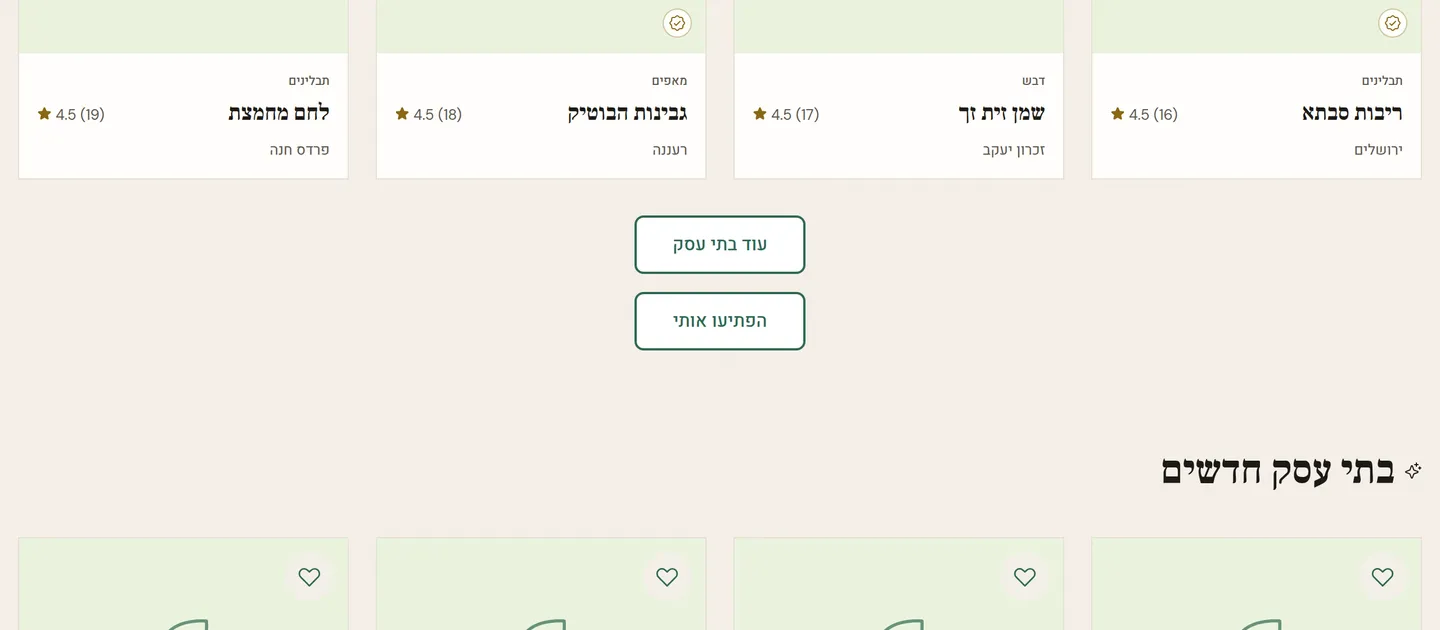
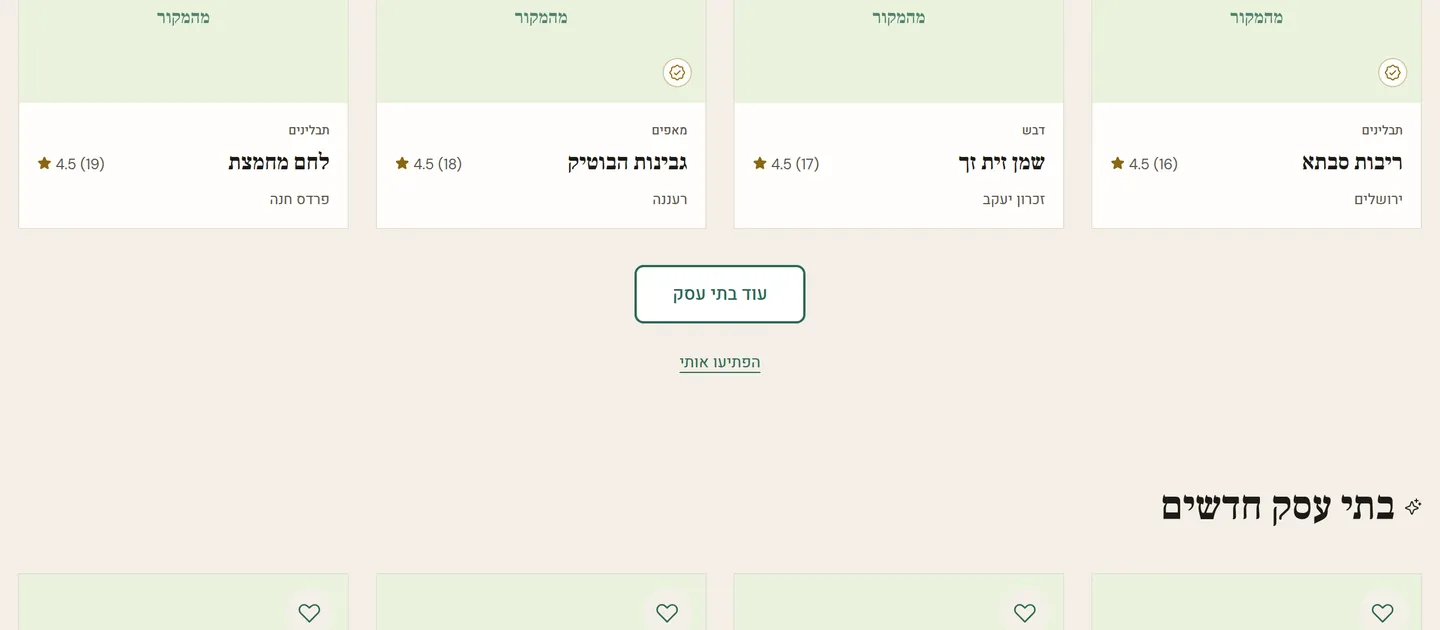
fix(home): MEH-1476 — grid-end surprise-me as a text link, not a twin pill
Sapir 22/07: the grid-end "הפתיעו אותי" rendered as an outline pill
identical to "עוד בתי עסק", recreating the MEH-1369 anti-pattern of two
equal-weight actions side by side.

Render the surprise-me action as a TEXT LINK instead — same weight/classes
as the hero "how it works" link (text-primary underline underline-offset-4
text-sm), deliberately lighter than the load-more pill. inline-block px-4 py-3
keeps the tap target >=44px via padding, not font size. Centered, mt-3 below
the pill; shows in both grid states (load-more button and the MEH-1387
/producers cap link). Handler + hasProducers gate + copy unchanged.

Folded into this PR (chunk 1 still open) since it refines the same button in
the same file.

Refs MEH-1476

Claude-Session: https://claude.ai/code/session_01AJ5oriWxse4sE8MmC3Q5J5

diff --git a/frontend/app/[locale]/home/HomeProducersGrid.jsx b/frontend/app/[locale]/home/HomeProducersGrid.jsx
@@ -250,14 +250,18 @@ export function HomeProducersGrid({
           {/* MEH-1476: surprise-me relocated here from the hero (was
               MEH-1288/MEH-1369). Full-catalog random producer via onSurprise
               (use-home-page handleSurprise → GET /producers/random); gated on
-              hasProducers. Secondary weight — matches the "load more" outline
-              pill above, NOT a filled primary. Reuses t("home.hero.surprise_me"). */}
+              hasProducers. Rendered as a TEXT LINK (same weight/classes as the
+              hero "how it works" link) — deliberately LIGHTER than the
+              "עוד בתי עסק" pill above so the two never read as equal-weight twin
+              actions (the MEH-1369 anti-pattern Sapir caught 22/07). `inline-block
+              px-4 py-3` keeps the tap target ≥44px via padding, not font size.
+              Reuses t("home.hero.surprise_me"). */}
           {hasProducers && (
-            <div className="text-center mt-4">
+            <div className="text-center mt-3">
               <button
                 type="button"
                 onClick={onSurprise}
-                className="bg-white text-primary border-2 border-primary px-8 py-3 rounded-sm hover:bg-green-50 transition font-medium"
+                className="inline-block px-4 py-3 text-primary hover:text-primary-dark underline underline-offset-4 text-sm transition-colors duration-base ease-quart focus-ring rounded"
               >
                 {t("home.hero.surprise_me")}
               </button>

diff --git a/docs/CHANGELOG.md b/docs/CHANGELOG.md
@@ -3,7 +3,7 @@
 > Chronological session log preserved from earlier `CLAUDE.md` revisions.
 
 ## Unreleased
-- **MEH-1476 — move "הפתיעו אותי" (surprise-me) from the hero to the producers-grid end (Closes MEH-1476):** the surprise-me action leaves the hero CTA row (where it sat as a text link beside "how it works", MEH-1288/MEH-1369/MEH-1409) and reappears at the **end of the producers grid, directly below "עוד בתי עסק" (load more)** as a matching **secondary outline pill** (`bg-white text-primary border-2 border-primary` — NOT a filled primary). `HomeHero.jsx` drops the `onSurprise` + `hasProducers` props and the surprise button (hero now carries only the filled primary + near-me ghost + "how it works" text link). `HomeProducersGrid.jsx` gains both props and renders the pill, render-gated on `hasProducers`; `page.js` reroutes `onSurprise={handleSurprise}` + `hasProducers={statsProducersCount > 0}` from the hero to the grid. **Handler unchanged** — `use-home-page` `handleSurprise` still hits `GET /producers/random` (full catalog) and navigates to a random producer. **i18n reused** (`home.hero.surprise_me`, no key rename, no new copy). **No backend/schema change.** Test `HomeHeroSurprise.test.jsx` → `HomeGridSurprise.test.jsx` (retargeted: hero no longer renders it; grid renders/gates/clicks it). `npm run build` exit 0 · full vitest **1525 pass / 10 skip**. Screenshots (desktop 1280 + mobile 390 — hero without surprise + grid-end pill below load-more, 52px tap target) in `frontend/qa-artifacts/MEH-1476/`. `Closes MEH-1476`.
+- **MEH-1476 — move "הפתיעו אותי" (surprise-me) from the hero to the producers-grid end (Closes MEH-1476):** the surprise-me action leaves the hero CTA row (where it sat as a text link beside "how it works", MEH-1288/MEH-1369/MEH-1409) and reappears at the **end of the producers grid, directly below "עוד בתי עסק" (load more)** as a **secondary text link** — same weight/classes as the hero "how it works" link (`text-primary underline underline-offset-4 text-sm`), deliberately **lighter** than the load-more pill so the two never read as equal-weight twin actions (the MEH-1369 anti-pattern; `inline-block px-4 py-3` keeps the tap target ≥44px via padding). `HomeHero.jsx` drops the `onSurprise` + `hasProducers` props and the surprise button (hero now carries only the filled primary + near-me ghost + "how it works" text link). `HomeProducersGrid.jsx` gains both props and renders the text link, render-gated on `hasProducers`; `page.js` reroutes `onSurprise={handleSurprise}` + `hasProducers={statsProducersCount > 0}` from the hero to the grid. **Handler unchanged** — `use-home-page` `handleSurprise` still hits `GET /producers/random` (full catalog) and navigates to a random producer. **i18n reused** (`home.hero.surprise_me`, no key rename, no new copy). **No backend/schema change.** Test `HomeHeroSurprise.test.jsx` → `HomeGridSurprise.test.jsx` (retargeted: hero no longer renders it; grid renders/gates/clicks it). `npm run build` exit 0 · full vitest **1525 pass / 10 skip**. Screenshots (desktop 1280 + mobile 390 — hero without surprise + grid-end **text link** below the load-more pill, ≥44px tap target) in `frontend/qa-artifacts/MEH-1476/`. `Closes MEH-1476`.
 - **MEH-1473 — recipe chip rephrased to question form (i18n-only, LOW-RISK — Closes MEH-1473):** the MEH-1462 recipe chip on `/producer/[id]` (`WhatsAppQuestionChips`) goes from the statement **"יש לי רעיון למתכון"** to the question **"אפשר לשתף מתכון שהכנתי?"**, and its Sapir-locked WhatsApp prefill from "…יש לי רעיון למתכון עם המוצרים שלכם:" to "היי! הגעתי מהעמוד שלכם במהמקור — הכנתי משהו מהמוצרים שלכם ואשמח לשתף את המתכון:". EN retranslated to match tone ("Can I share a recipe I made?" / "Hi! I came from your page on Mehamakor — I made something with your products and I'd love to share the recipe:"). **i18n-only** — both strings flow from `whatsapp.question_chips.recipe_idea` / `recipe_idea_message` in `he.json` + `en.json`; `WhatsAppQuestionChips.jsx` untouched (only a stale MEH-1462 history comment still quotes the old label — left per scope lock). Updated the exact-prefill href assertion in `quickAnswers.test.js` (PR #2064). ADR-024 ungendered, no emoji. `npm run build` exit 0 · `quickAnswers.test.js` **27/27**. Chip-row harness shot @375px (RTL; sandbox can't SSR-populate `/producer/[id]`) in `qa-artifacts/MEH-1473/`. `Closes MEH-1473`.
 - **MEH-1470 — preserve the category selection when removing the city/search chip on `/producers` (LOW-RISK — Closes MEH-1470):** the two removable chips (`ProducersClient.jsx` city-× `:488`, search-× `:503`) called `syncUrl`/`fetchFiltered` **omitting** the 4th (category) arg, so removing city or search silently cleared the active category selection from both the URL and the refetch — a pre-existing quirk surfaced by MEH-1465's adversarial review (those handlers omitted the single-string arg pre-1465 too). Fix: thread the current `categoryFilter` array through both call-sites; grep confirmed these were the **only** two omitting call-sites (every other call already passes category, or the intentional `[]` in `clearAll`). Tests: `ProducersClientCategoryAxis.test.jsx` +2 (remove-city keeps the 2-category union in URL + fetch; remove-search keeps the category). Full vitest green; `npm run build` exit 0. Also folds the MEH-1465 HANDOFF "PR OPEN → MERGED PR #2075" correction. `Closes MEH-1470`.
 - **MEH-1465 — category multi-select OR across the chip rows (HIGH-RISK, chunk-by-chunk — Closes MEH-1465):** category chips on `/map` + `/producers` go from single-select radio to **multi-select OR** — pick several categories and see the union. Builds on the backend/serializer OR contract (Chunk A, PR #2069) and the Direction A design delta (`docs/DESIGN.md:478-506`, PR #2070). **Chunk 1 — `ChipScrollRow`:** `variant="category"` accepts an `activeKeys` **Set** (legacy `activeKey` string still works via a length-1 set); role `radiogroup → toolbar`; `scrollIntoView` pulls the last-activated key in (Set diff, mirroring the toggle variant). A selected category chip renders the **Direction A** language — category-colour ring (`1.5px`, `--cat-ring = chip.iconColor = registry textColor ?? color`) + 12% `color-mix` wash + neutral bold label, glyph keeps the colour; solid `state-selected` fill kept for toggle chips and the "כל" baseline; "כל" drops to a **ghost** once ≥1 category is selected. `DEFAULT_CAT_RING = #2e6853` (the registry DEFAULT = `primary` token, `category-registry.js:78` — no new green). **Chunk 2 — `/producers`:** `categoryFilter` string → **array**; `handleCategorySelect` toggles in/out ("הכל" clears, re-tap removes); `syncUrl` serializes repeated `?category=` (init via `searchParams.getAll`; legacy single `?category=X` hydrates identically); per the tag-strip rule the category is **never** a removable tag (removed `active-category-chip`; exit = "הכל"/re-tap); MEH-1088 `visibleCategories` untouched (membership adapts to the array). **Chunk 3 — `/map`:** `chipState.categoryKey` → `categoryKeys` array; `chipStateToParams` emits the **deduped union** of every selected chip's `resolveCategoryIds` (aggregate chips can overlap → Set dedup); `onCategoryChipClick` toggle semantics; both reset sites updated (`useMapFilters.resetAllFilters` + `MapClient.onResetAll`); `FilterChipsBar` passes `activeKeys={new Set(chipState.categoryKeys)}`; the "סינון · N" count + `activeFilterTags` stay **attributes-only** (category branch already removed in MEH-1368 — verified, not re-added); legend `activeCategoryNames` untouched. **Follow-up MEH-1470** (gated on this PR): the removable city-×/search-× chips on `/producers` drop active categories from the refetch/URL — a pre-existing quirk (they omitted the category arg pre-1465 too), left untouched here to avoid bundling a fix with the feature. `npm run build` exit 0 · full vitest **1525 pass / 10 skip** (+11 new: ChipScrollRow Direction A/Set, producers union/re-tap/deep-link, mapChips union/aggregate/dedup). Screenshots @375px (all 3 chunks, incl. 2-category union + repeated `?category=`, legacy single-param, `/map` union + "סינון · 1" attribute-only tags + after-reset) in `qa-artifacts/MEH-1465/`. **No auto-merge** — Sapir merges after mobile QA. `Closes MEH-1465`.
